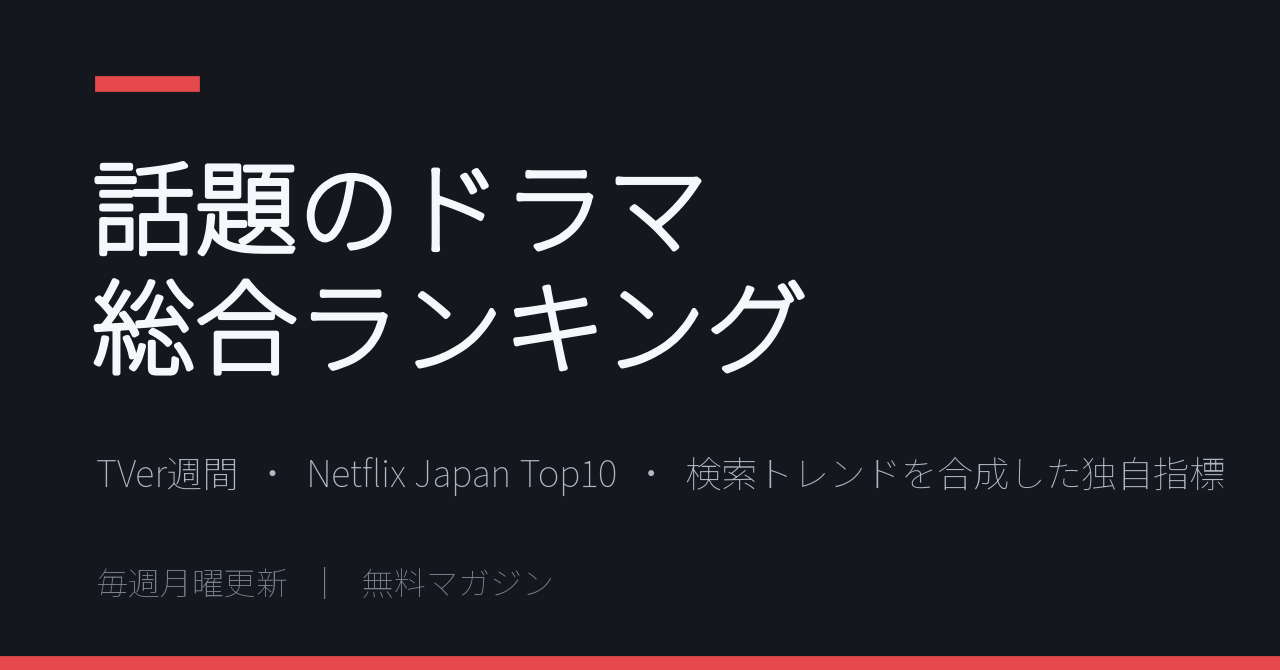
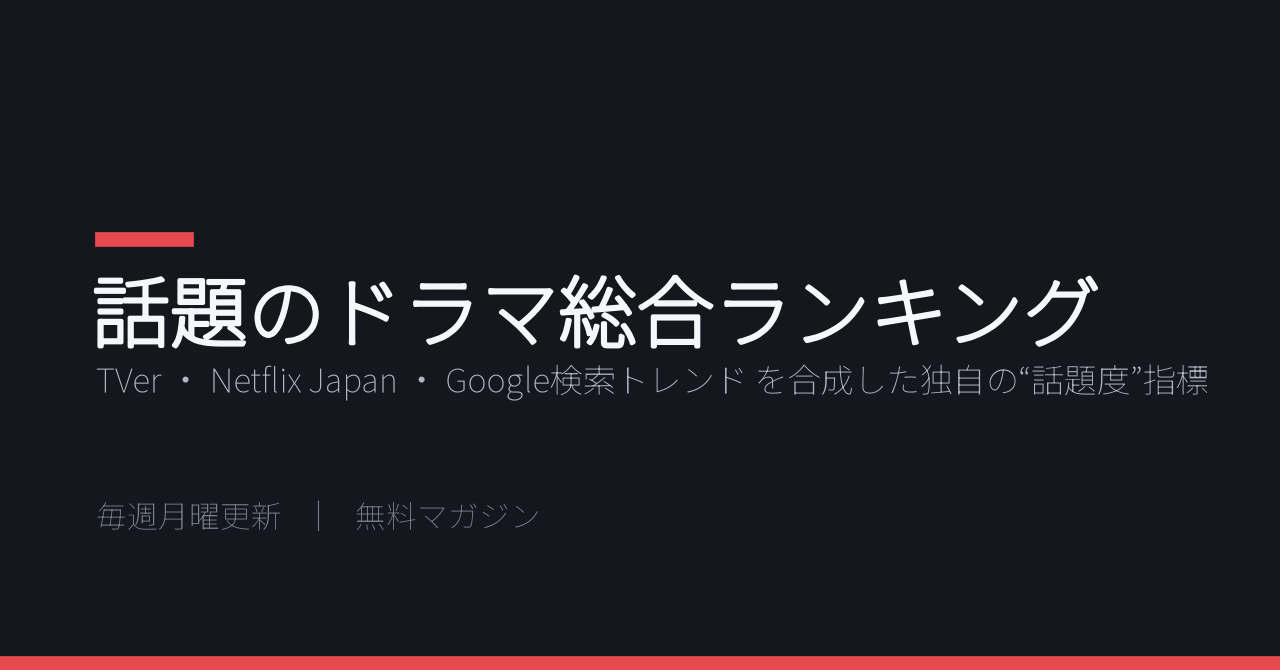
fix(3-drama): マガジン画像の文字を縮小し中央帯に凝縮
タイトル1行28pt＋タグライン12ptを上下中央へ。noteのマガジントップの
細い表示帯に収まるように。

diff --git a/dev/3-drama/assets/make_cover.py b/dev/3-drama/assets/make_cover.py
@@ -42,19 +42,21 @@ ax.set_ylim(0, 1)
 
 ax.add_patch(plt.Rectangle((0, 0), 1, 1, color=BG))
 ax.add_patch(plt.Rectangle((0, 0), 1, 0.02, color=ACCENT))          # 下端ライン（SNS用）
-ax.add_patch(plt.Rectangle((0.075, 0.865), 0.08, 0.02, color=ACCENT))  # タイトル上バー
+# マガジントップは中央の細い横帯（おおよそ y=0.33〜0.67）だけ表示される。
+# タイトル＋タグラインをその中に収める。
+ax.add_patch(plt.Rectangle((0.075, 0.635), 0.075, 0.017, color=ACCENT))  # タイトル上バー
 
-_title = ax.text(0.072, 0.60, "話題のドラマ\n総合ランキング",
-                 fontsize=37, color=TITLE, fontweight="bold", va="center", linespacing=1.15)
-_title.set_path_effects([pe.withStroke(linewidth=1.8, foreground=TITLE)])
+_title = ax.text(0.072, 0.535, "話題のドラマ総合ランキング",
+                 fontsize=28, color=TITLE, fontweight="bold", va="center")
+_title.set_path_effects([pe.withStroke(linewidth=1.4, foreground=TITLE)])
 
-ax.text(0.075, 0.29,
-        "TVer週間  ・  Netflix Japan Top10  ・  検索トレンドを合成した独自指標",
-        fontsize=13, color=SUB, va="center")
+ax.text(0.075, 0.43,
+        "TVer ・ Netflix Japan ・ Google検索トレンド を合成した独自の“話題度”指標",
+        fontsize=12, color=SUB, va="center")
 
 # 安全帯の外（SNSシェア時のみ見える）
-ax.text(0.075, 0.13, "毎週月曜更新   ｜   無料マガジン",
-        fontsize=11.5, color=MUTE, va="center")
+ax.text(0.075, 0.23, "毎週月曜更新   ｜   無料マガジン",
+        fontsize=11, color=MUTE, va="center")
 
 fig.savefig(OUT, dpi=200, facecolor=BG)
 plt.close(fig)
